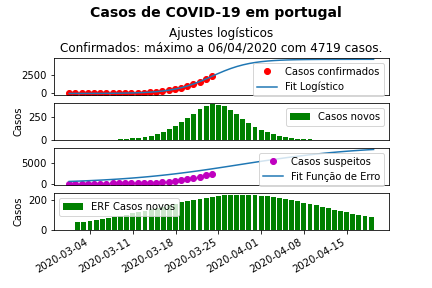
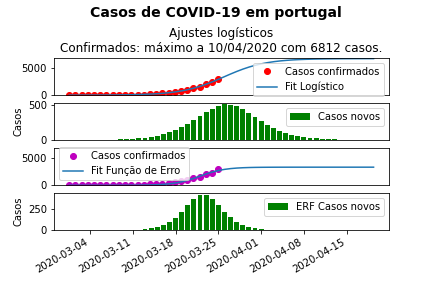
scale fix

diff --git a/Previsões_Corona.py b/Previsões_Corona.py
@@ -51,7 +51,7 @@ def fitlogistic(x, y, dias):  # fit a logistic function
 
 
 def fiterf(x, y, dias):  # fit a logistic function
-    model = StepModel(form="erf")
+    model = StepModel(form="arctan")
     # parameters to fit guesses by lmfit
     parameters = model.guess(y, x=x)
     output = model.fit(y, parameters, x=x)
@@ -138,6 +138,7 @@ def plot(  # plot all the data
     ax1.plot(x, yconfirmados, "ro", label="Casos confirmados")
     ax1.plot(xconf, outputconf, label="Fit Logístico")
     ax1.xaxis.set_visible(False)
+    ax1.set_ylim(-5, 7000)
     ax1.legend()
 
     ax2.set_ylabel("Casos")
@@ -145,9 +146,10 @@ def plot(  # plot all the data
     ax2.xaxis.set_visible(False)
     ax2.legend()
 
-    ax3.plot(x, yconfirmados, "mo", label="Casos suspeitos")
+    ax3.plot(x, yconfirmados, "mo", label="Casos confirmados")
     ax3.plot(xconf, erfoutputconf, label="Fit Função de Erro")
     ax3.xaxis.set_visible(False)
+    ax3.set_ylim(-5, 7000)
     ax3.legend()
 
     ax4.set_ylabel("Casos")
